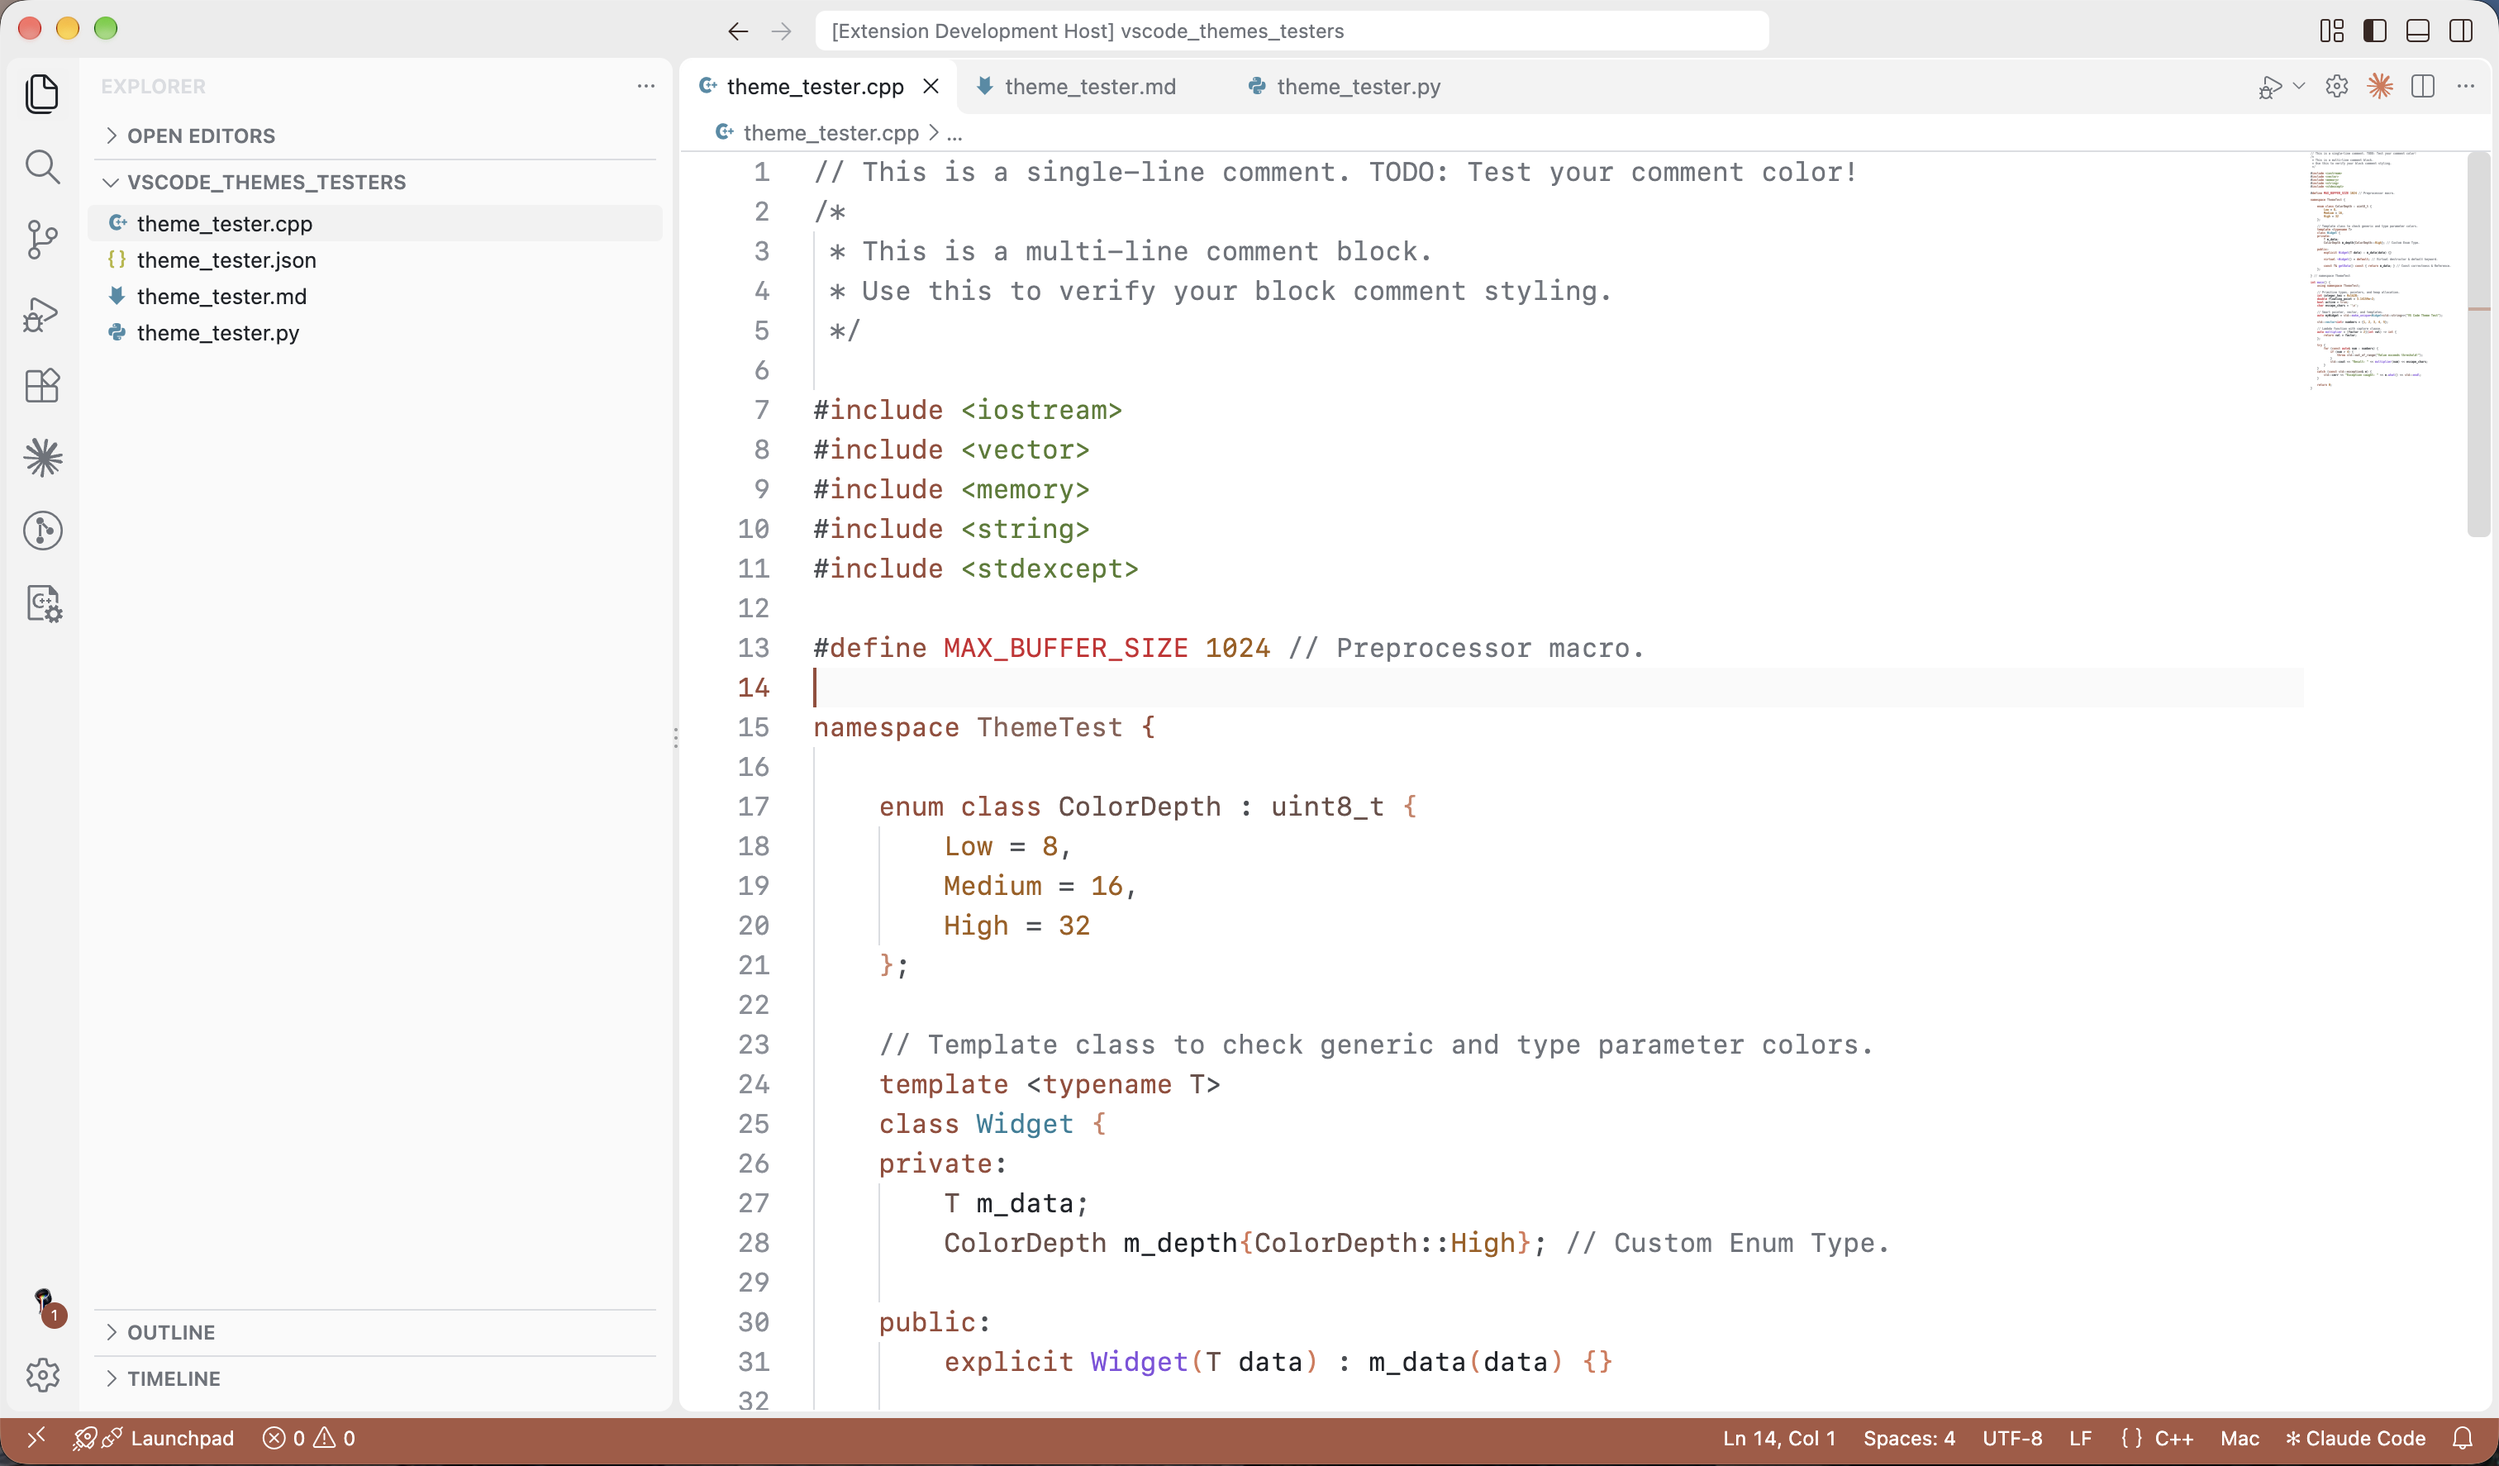
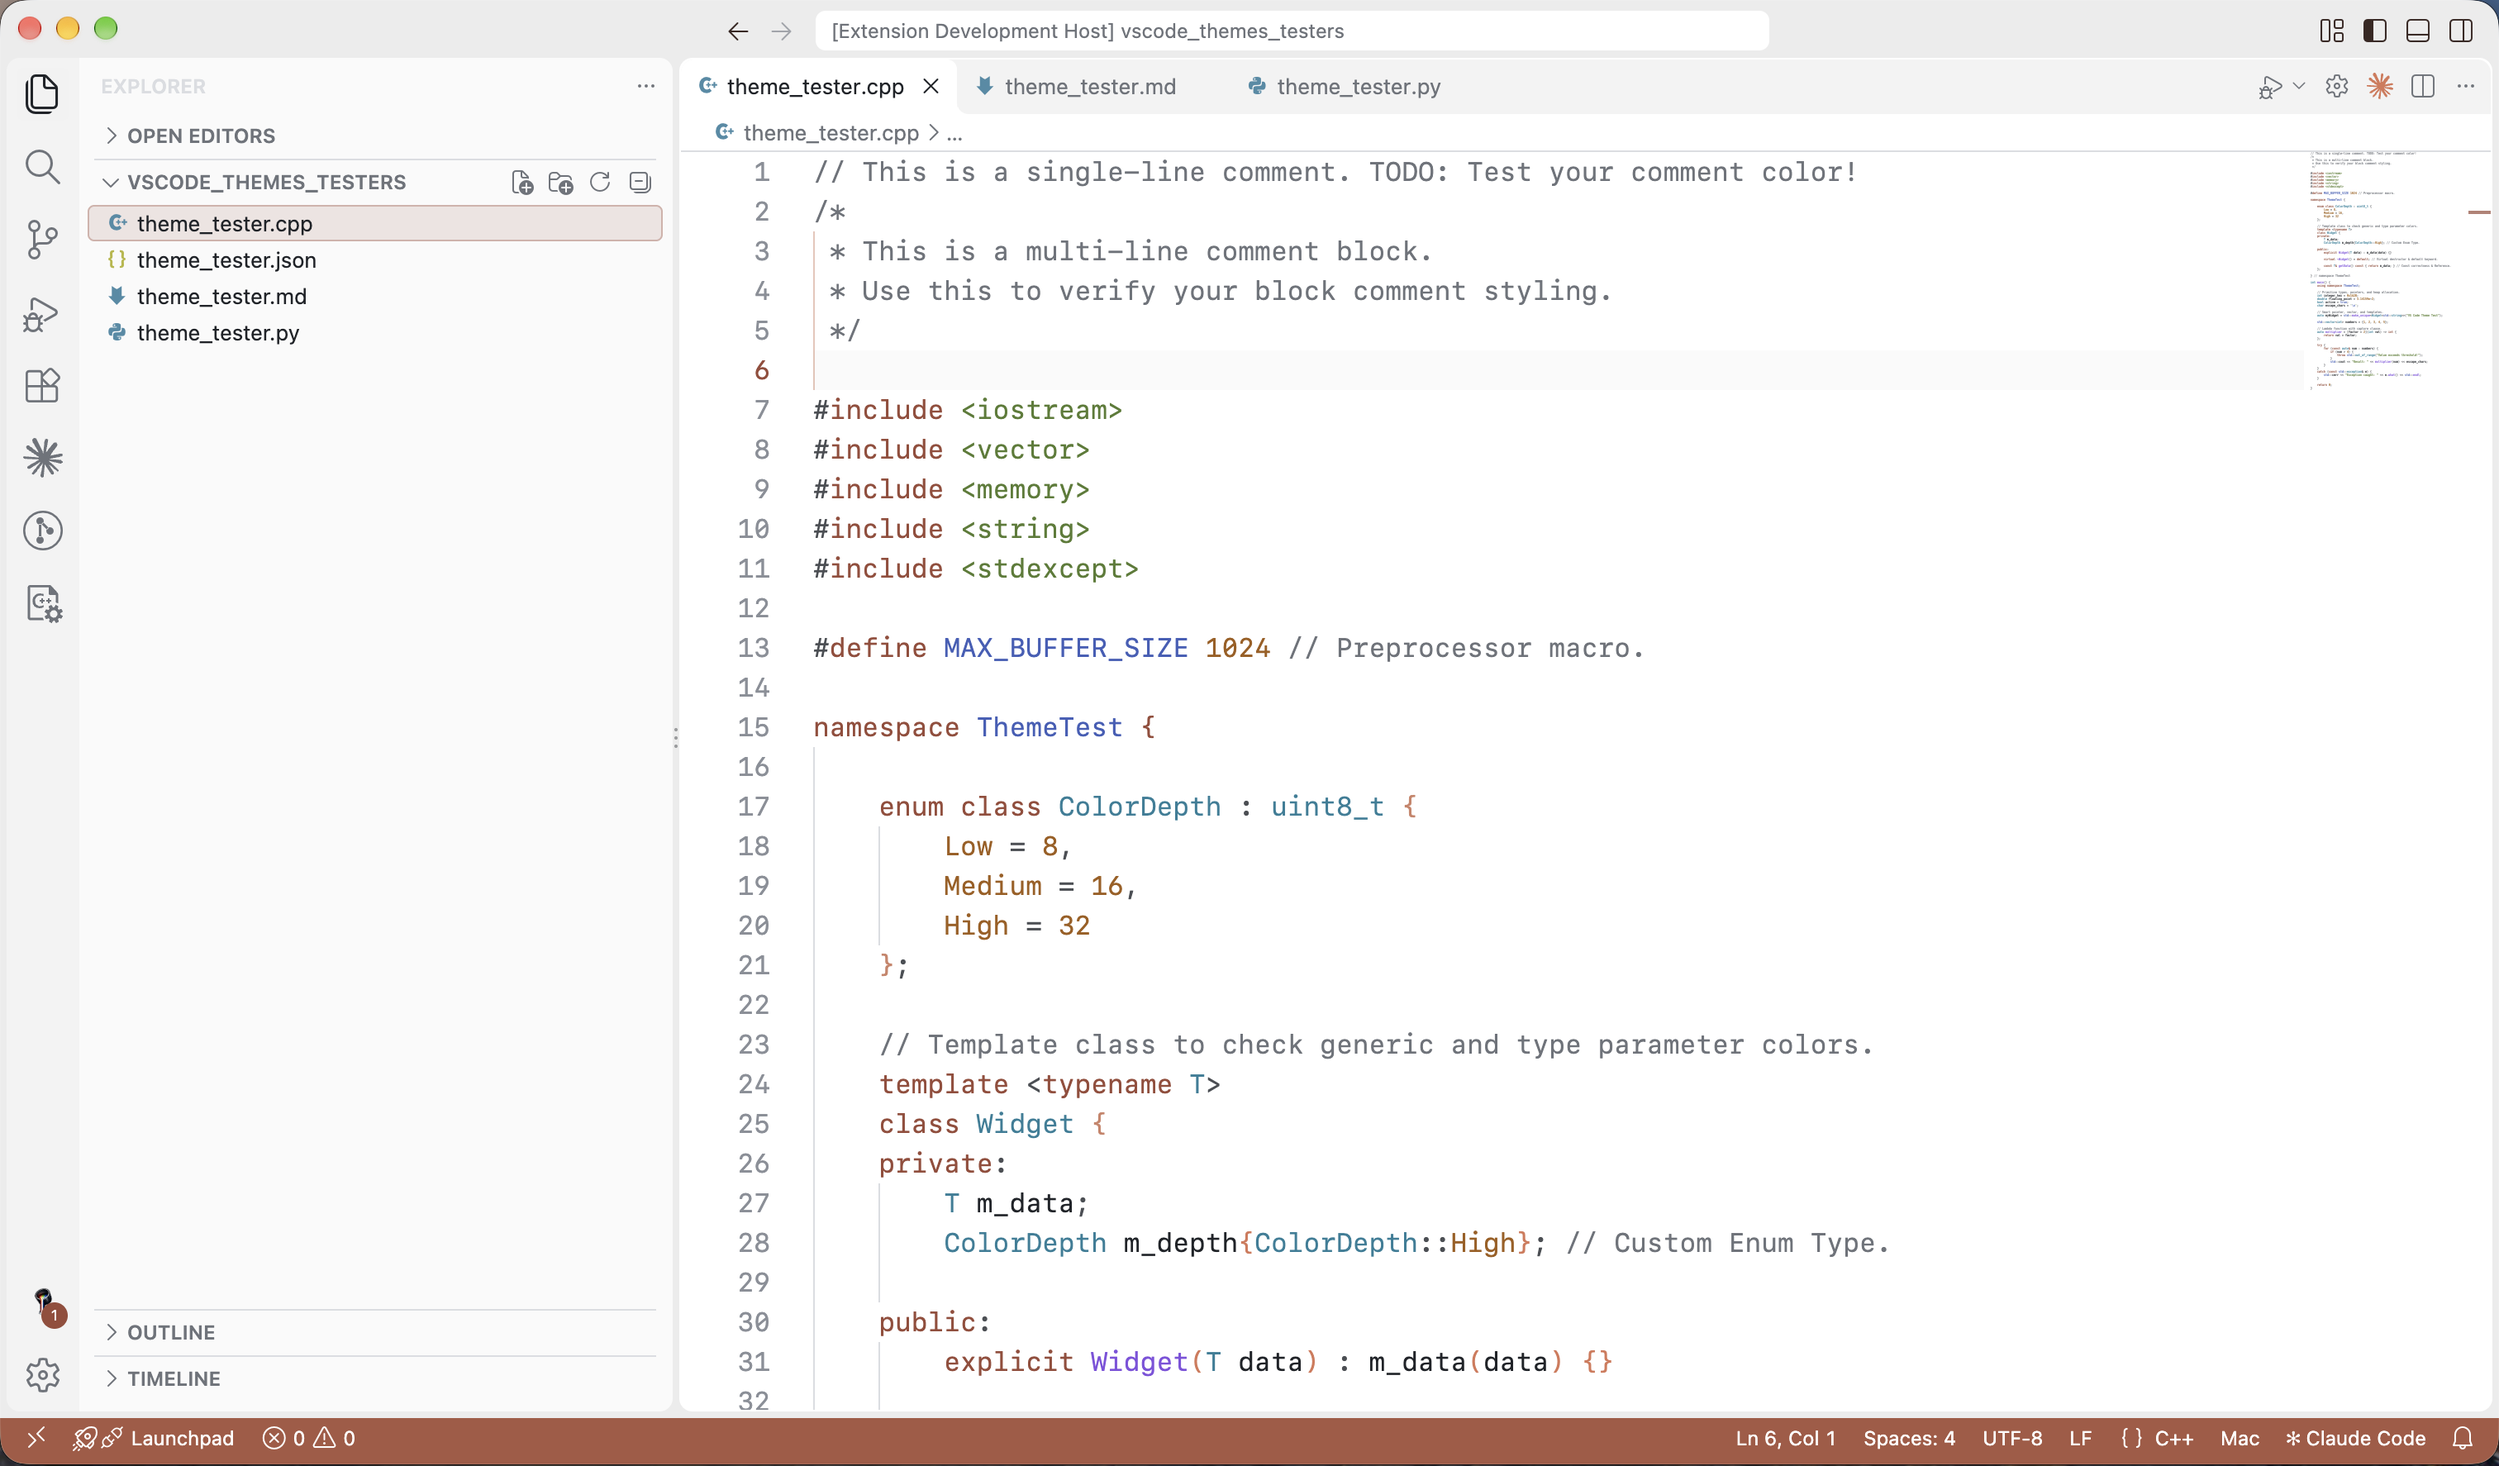
Update to semantic token palette to make it more consistent

diff --git a/themes/hypnotic-copper/CHANGELOG.md b/themes/hypnotic-copper/CHANGELOG.md
@@ -2,6 +2,36 @@
 
 All notable changes to **Hypnotic Copper** will be documented in this file.
 
+## [1.4.0] - 2026-10-14
+
+### Added
+
+- Added a dedicated Decorators rule so decorator names and `@` markers use copper before and after semantic highlighting loads.
+- Added a strikethrough for deprecated symbols through the `*.deprecated` semantic modifier.
+- Added Pylance `selfParameter` and `clsParameter` semantic colors that match the quiet TextMate color for `self` and `cls`, and a `builtinConstant` color so `None`, `True`, and `False` use Blue Steel.
+
+### Changed
+
+- Aligned TextMate and semantic token colors in all three variants, so enums, enum members, parameters, decorators, macros, type parameters, labels, readonly symbols, and Glow's types no longer change color when a language server finishes loading.
+- Gave every type-like symbol (types, classes, interfaces, enums, type parameters, and primitive types) a single type color per variant: plum in Dark, teal in Glow, and slate in Metal.
+- Gave Glow a true Blue Steel (`#415FB9`, shared with Metal) for namespaces, constants, readonly symbols, macros, TODO tags, Git hashes, and YAML anchors, replacing a rose-brown that did not match the documented palette.
+- Moved numbers and enum members to each variant's bronze, matching the documented palette and the semantic number color.
+- Colored macros with Blue Steel instead of red, and Python string prefixes with copper.
+- Rendered parameters in the variable color while keeping `self` and `cls` quiet.
+- Changed Metal's Python docstrings from the string color to its comment color to match Glow and Dark.
+- Unified Dark's function and method colors, and its operator and punctuation colors, which had drifted into near-duplicate shades.
+- Changed Metal's arrow functions, `extends`, Rust lifetimes and visibility modifiers, regular expression delimiters, link titles, and deleted diff lines from a below-AA blue to Metal's copper, matching Glow and Dark.
+- Updated the README syntax palette to describe each color by role, including Metal's slate type color.
+
+### Fixed
+
+- Fixed Dark's constants, which had become almost indistinguishable from copper keywords; they now use Blue Steel.
+- Fixed C++ primitive types such as `int` and `float` rendering in the invalid-code red in all three variants.
+- Fixed Glow's Python strings rendering in navy instead of the sage used for every other language, and Glow's regular expressions rendering in navy.
+- Fixed Glow and Dark search-result line numbers falling below WCAG AA contrast.
+- Fixed `region.whitish` text being invisible on Metal and Glow's light backgrounds.
+- Restored identical token rule order across all three variants.
+
 ## [1.3.0] - 2026-10-14
 
 ### Added

diff --git a/themes/hypnotic-copper/README.md b/themes/hypnotic-copper/README.md
@@ -31,7 +31,7 @@ A cool metallic theme inspired by machined aluminum and softly tinted blue-gray 
 A crisp white light theme with the contrast language of Hypnotic Copper Dark.
 
 * White editor and terminal surfaces
-* Off-white workbench structure for subtle separation
+* Off-white workbench structure inside a soft gray window frame
 * Copper accents based on `#9A4A39`, `#CF8268`, and `#D97757`
 * Selectively darkened foregrounds for light-background readability
 * Targeted Python and C++ token refinements
@@ -62,20 +62,23 @@ Hypnotic Copper follows a few simple principles:
 
 The syntax palette intentionally remains restrained:
 
-* **Copper** — keywords, decorators, Bazel keyword arguments, HTML tags
+* **Copper** — keywords, decorators, string prefixes, Bazel keyword arguments, HTML tags
 * **Callable accents** — functions, methods, and Bazel rule names, tuned per variant
-* **Sage** — strings
-* **Plum** — types and classes
-* **Blue Steel** — namespaces and readonly symbols
+* **Sage** — strings and regular expressions
+* **Type color** — types, classes, interfaces, enums, type parameters, and primitive types: plum in Dark, teal in Glow, and slate in Metal, where plum is the callable accent
+* **Blue Steel** — namespaces, constants, readonly symbols, macros, and built-in constants such as `None` and `True`
 * **Bronze** — numbers and enum members
-* **Graphite** — punctuation and operators
-* **Silver** — variables
+* **Graphite** — punctuation, operators, labels, and `self`/`cls`
+* **Silver** — variables and parameters
 * **Gray** — comments
+
+Deprecated symbols are shown with a strikethrough, and each token keeps the same color before and after semantic highlighting loads.
 
 ## Features
 
 * ✓ Metal, Glow, and Dark variants
-* ✓ Semantic highlighting
+* ✓ Semantic highlighting with matching TextMate colors, so tokens keep their color when a language server loads
+* ✓ WCAG AA contrast for every syntax color in all three variants
 * ✓ Carefully tuned workbench colors
 * ✓ Broad coverage for Chat, inline editing, diff and merge views, notebooks, testing, settings, and SCM graphs
 * ✓ Refined GitLens integration

diff --git a/CHANGELOG.md b/CHANGELOG.md
@@ -2,6 +2,22 @@
 
 All notable changes to **Hypnotic Copper** will be documented in this file.
 
+## [1.4.0] - 2026-10-14
+
+### Added
+
+- Added decorator, deprecated-symbol strikethrough, and Pylance `self`/`cls` and built-in constant colors.
+
+### Changed
+
+- Aligned TextMate and semantic token colors so tokens no longer change color when a language server loads.
+- Gave each variant one type color for all type-like symbols and a consistent Blue Steel and bronze, and updated the README palette to describe colors by role.
+- Changed Metal's Python docstrings to its comment color, matching Glow and Dark.
+
+### Fixed
+
+- Fixed Dark constants blending into keywords, C++ primitive types rendering as invalid code, Glow's navy Python strings, below-AA search line numbers, and invisible `region.whitish` text on light variants.
+
 ## [1.3.0] - 2026-10-14
 
 ### Added
